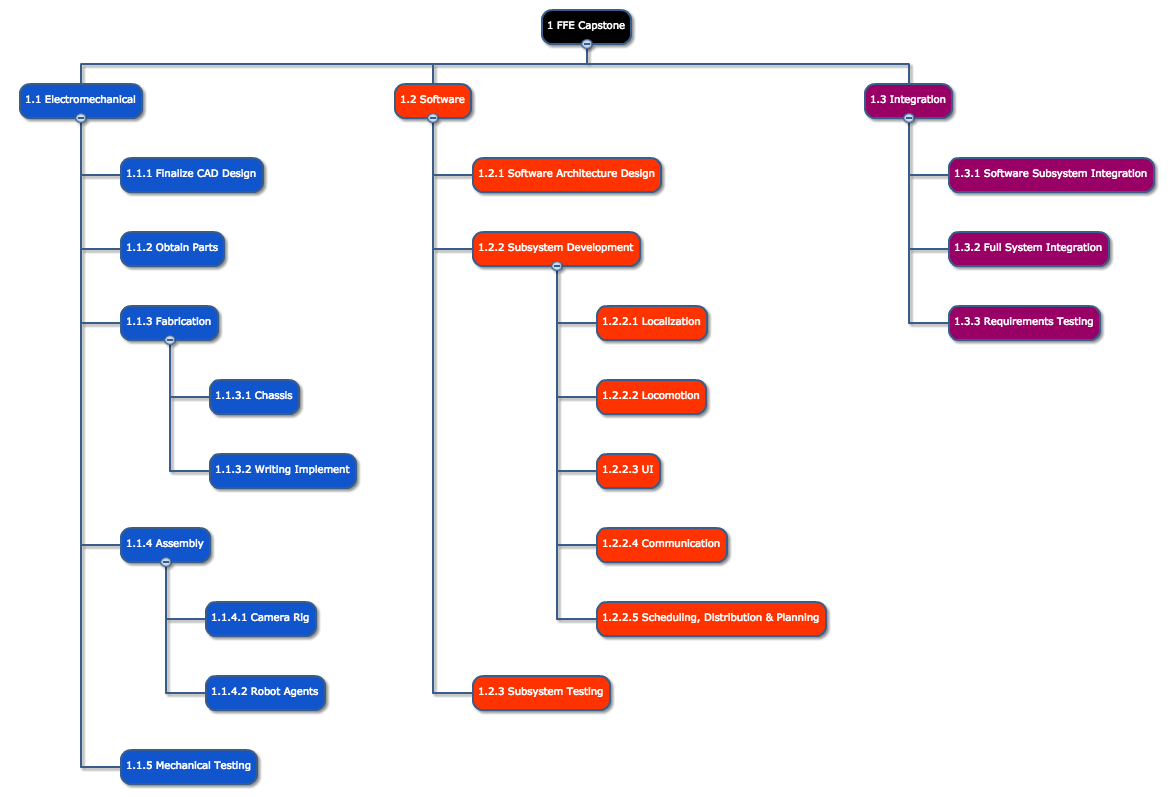
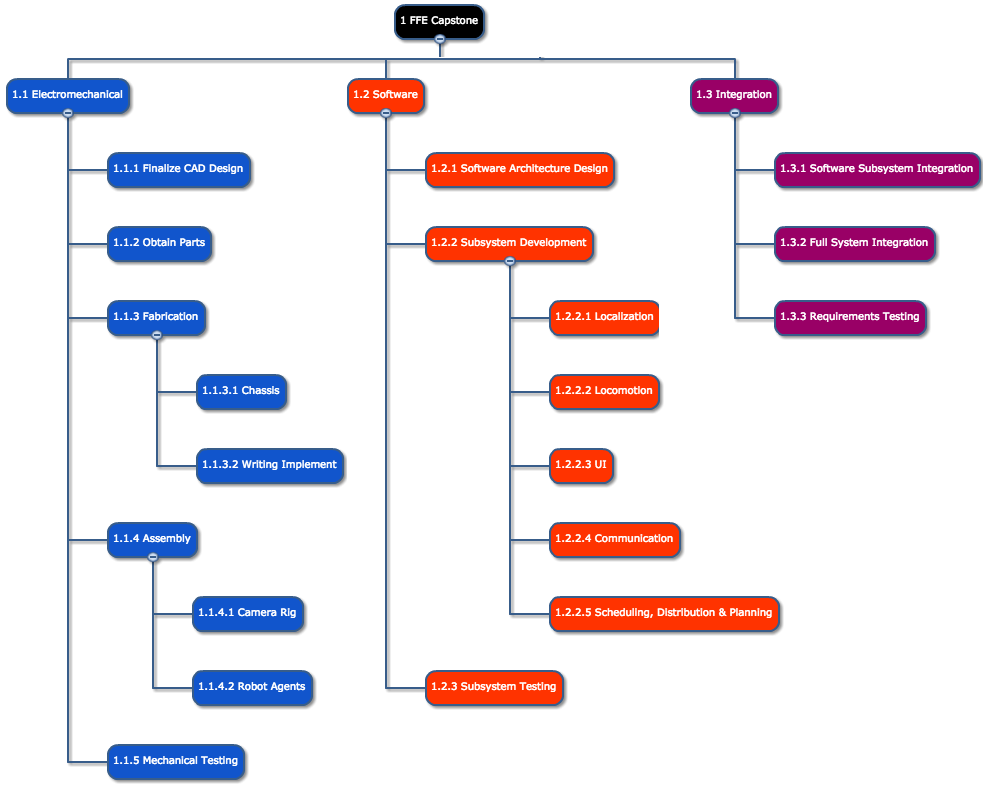
Unlarge WBS figure

Changed region(s): [[0.0, 0.0, 1.0, 1.0], [0.0607, 0.1834, 0.2733, 0.2446], [0.0607, 0.2752, 0.2429, 0.3363]]

diff --git a/documentation/design_update/project_management.tex b/documentation/design_update/project_management.tex
@@ -11,10 +11,11 @@ In this section, we present the Work Breakdown Schedule for the project.
 
 \begin{figure}[h!]
 \centering
-\includegraphics[width=0.98\columnwidth]{wbs_schedule/wbs_1_31_17.png}
+\includegraphics[width=\textwidth]{wbs_schedule/wbs_1_31_17.png}
 \caption{Full WBS for the project}
 \label{fig:full-wbs}
 \end{figure}
+
 \begin{figure}[h!]
 \centering
 \includegraphics[width=0.8\columnwidth]{wbs_schedule/wbs_electromechanical.png}
